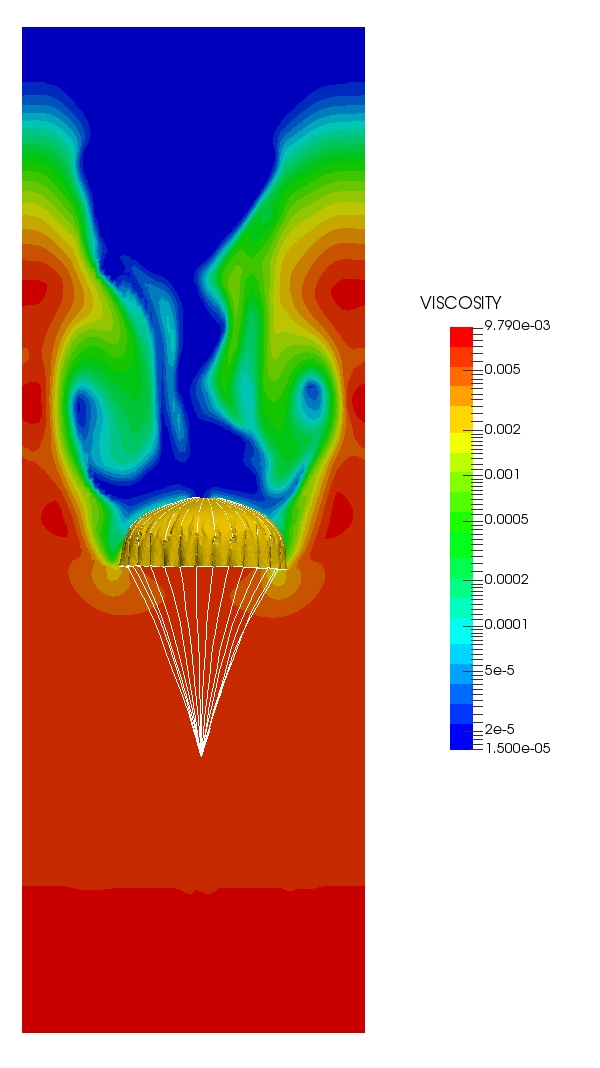
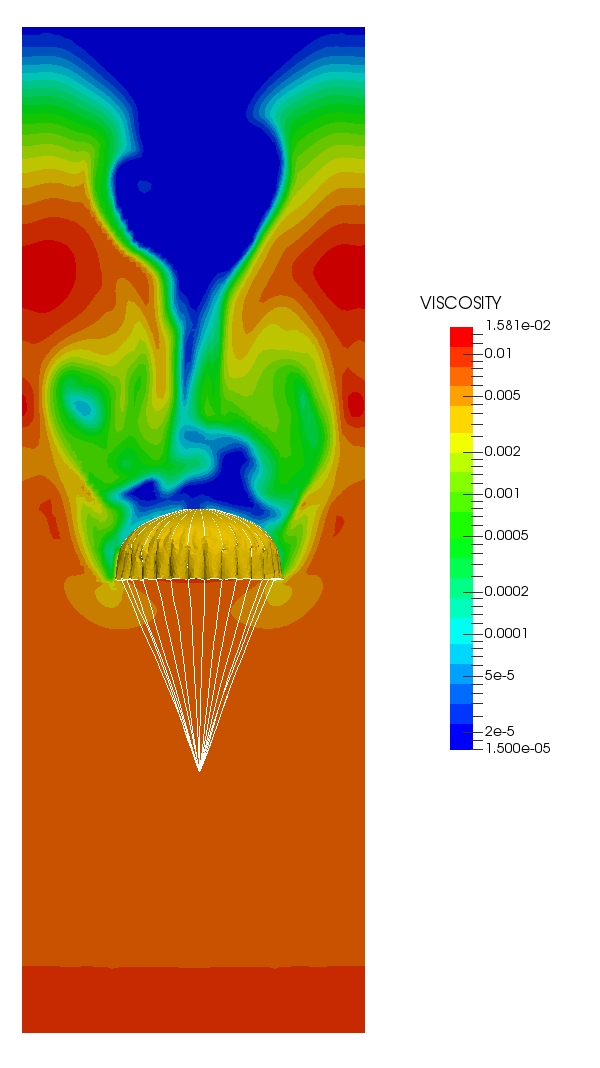
Added numerical results

diff --git a/Results.tex b/Results.tex
@@ -52,9 +52,11 @@ The Reynolds number around a full-size parachute usually exceeds several million
 
 \Fig{turbulent_visc_vel_10ms} shows the same test, yet with inlet velocity $10m/s$. It is reasonable that the parachutes are subjected to stronger drag force than the case of $3m/s$, and hence falls much slower. The Realizable model still predicts the smallest value of the viscosity in the wake of the parachute. However, since the inflow velocity increases, the kinetic energy and dissipation rate produced at the inlet are able to propagate further and dominate the viscosity field. As the parachute falls and interacts with the inlet flow, it pushes the turbulent viscosity field away to each side and generates vortex-like pattern.
 
-The standard $k-\varepsilon$ model assumed that the flow is fully turbulent, and the effects of molecular viscosity are negligible. This model works fairly well for a wide range of wall-bounded and free shear flows. However, since the parachute canopy prevents the flow from passing through and the flow behind the parachute is less-turbulent, the standard model tends to overestimate the turbulent viscosity in the parachute wake. The RNG model is integrated to obtain an accurate description of how the effective turbulent transport varies with the effective Reynolds number, allowing the model to better handle low-Reynolds-number and near-wall flows. The RNG model is more responsive to the effects of rapid strain and streamline curvature than the standard model, and hence in the rapidly strained flows, it yields a lower turbulent viscosity than the standard model. The Realizable model is proposed by satisfying certain mathematical constrains on the normal stresses, consistent with the physics of turbulent flows. It is believed that the modified form of the equation for $\varepsilon$ better represents the spectral energy transfer. The performance of the model has been found to be substantially better than that of the standard model.
+\Fig{turbulent_visc_vel_15ms} displays the velocity and viscosity field with inlet velocity $15m/s$. This test gives a real turbulence field, and therefore the predictions of the three models are expected to be reasonable. The viscosity field predicted by the RNG model resembles the standard one but with more details in the wake, while the realizable model produces a completely different viscosity field. This field results in a more chaotic velocity field than the other two cases. We also notice that using turbulence model makes the parachute drop significantly faster than the case without turbulence model. This can be explained by the fact that the turbulence viscosity plays as a friction between fluid elements, and hence reduce the velocity magnitude and the drag force.
 
-\begin{figure}
+In summary, the standard $k-\varepsilon$ model assumed that the flow is fully turbulent, and the effects of molecular viscosity are negligible. This model was demonstrated to work fairly well for a wide range of wall-bounded and free shear flows. However, since the parachute canopy prevents the flow from passing through and the flow behind the parachute is less-turbulent when the inlet velocity is small, the standard model tends to overestimate the turbulent viscosity in the parachute wake. The RNG model is integrated to obtain an accurate description of how the effective turbulent transport varies with the effective Reynolds number, allowing the model to better handle low-Reynolds-number and near-wall flows. The RNG model is expected to be more responsive to the effects of rapid strain and streamline curvature than the standard model. Hence in the rapidly strained flows, it yields a lower turbulent viscosity than the standard model. The Realizable model is proposed by satisfying certain mathematical constrains on the normal stresses, consistent with the physics of turbulent flows. It is believed that the modified form of the equation for $\varepsilon$ better represents the spectral energy transfer. The performance of the model has been found to be substantially better than that of the standard model.
+
+\begin{figure}[h!]
 \centering
 \includegraphics[width=0.24\textwidth]{Figures/c9-vel-std-3ms.jpg}
 \includegraphics[width=0.24\textwidth]{Figures/c9-vel-rng-3ms.jpg}
@@ -68,7 +70,7 @@ The standard $k-\varepsilon$ model assumed that the flow is fully turbulent, and
 \label{turbulent_visc_vel_3ms}
 \end{figure}
 
-\begin{figure}
+\begin{figure}[h!]
 \centering
 \includegraphics[width=0.24\textwidth]{Figures/c9-vel-std-10ms.jpg}
 \includegraphics[width=0.24\textwidth]{Figures/c9-vel-rng-10ms.jpg}
@@ -80,6 +82,20 @@ The standard $k-\varepsilon$ model assumed that the flow is fully turbulent, and
 \includegraphics[width=0.24\textwidth]{Figures/c9-vis-lam-10ms.jpg}
 \caption{Velocity magnitude and turbulent viscosity for C-$9$ parachute using different turbulent models at the same time frame. The inlet velocity is $10m/s$. The figures in the upper row displays the velocity magnitude and the figures in the lower row shows the turbulent viscosity.}
 \label{turbulent_visc_vel_10ms}
+\end{figure}
+
+\begin{figure}[h!]
+\centering
+\includegraphics[width=0.24\textwidth]{Figures/c9-vel-std-15ms.jpg}
+\includegraphics[width=0.24\textwidth]{Figures/c9-vel-rng-15ms.jpg}
+\includegraphics[width=0.24\textwidth]{Figures/c9-vel-real-15ms.jpg}
+\includegraphics[width=0.24\textwidth]{Figures/c9-vel-lam-15ms.jpg}\\
+\includegraphics[width=0.24\textwidth]{Figures/c9-vis-std-15ms.jpg}
+\includegraphics[width=0.24\textwidth]{Figures/c9-vis-rng-15ms.jpg}
+\includegraphics[width=0.24\textwidth]{Figures/c9-vis-real-15ms.jpg}
+\includegraphics[width=0.24\textwidth]{Figures/c9-vis-lam-15ms.jpg}
+\caption{Velocity magnitude and turbulent viscosity for C-$9$ parachute using different turbulent models at the same time frame. The inlet velocity is $15m/s$. The figures in the upper row displays the velocity magnitude and the figures in the lower row shows the turbulent viscosity.}
+\label{turbulent_visc_vel_15ms}
 \end{figure}
 \subsection{Porosity model}
 Two sets of numerical tests are carried out to validate the porosity model 
@@ -263,12 +279,12 @@ In order to generate a folded shape of the parachute canopy before the simulatio
 \end{figure}
 
 There exist many ways to fold a parachute. The standard folding procedure includes three steps: flat fold, long fold, and stow into a package. These steps should be carried out one by one without interfering each other.
-\section{Cloud microphysics}
+\section{Results for turbulent entrainment and mixing}
 \subsection{Experimental setup}
-Three different initial configurations of cloudy area are used to investigate
-the configuration impact. First, as in \cite{And04}, the function is defined
-according to the sign of the velocity function in physics space. This
-configuration is referred to as case 1 and the water vapor mixing ratio is
+Three different initial configurations are used to investigate
+the configuration impact. First, as in \cite{And04}, the function of the water vapor mixing 
+ratio $q_v(\vect{x}, t = 0)$ is defined according to the sign of the first component of the velocity 
+field. This configuration is referred to as C ase 1 and the water vapor mixing ratio is
 given by
 
 \begin{equation}
@@ -279,7 +295,9 @@ q_{v,e}, & u(\mathbf{x}) \le 0
 \end{array}\right.\label{case1}
 \end{equation}
 
-In \cite{Kumar11}, the author used a slab-like cloud configuration approximated with a simple discontinuous function, and is referred to as Case 2:
+In \cite{Kumar11}, the author used a slab-like cloud configuration approximated by a continuous 
+function with a rapid change at the cloud-clear air interface. We notice that this artificial function is 
+used due to the shortcoming of the spectral method, which has the difficulty to handle the profile with discontinuities. Since a finite difference method is used here, we can simply replace this function with a discontinuous formula and refer it as Case 2:
 
 \begin{equation}
 \mbox{case 2: } q_v(x,t=0) = 
@@ -309,36 +327,37 @@ q_{v,e}, & \mbox{elsewhere}
 
 The temperature field is initialized by imposing the neutral buoyancy condition \cite{Kumar14}:
 \begin{equation}
-T(x,t = 0) = T_0 - 0.608T_0[q_v(x,t = 0) - q_{v0}]
+T(\vect{x},t = 0) = T_0 - 0.608T_0[q_v(\vect{x},t = 0) - q_{v,0}]
 \end{equation}
 where the reference values are defined by volume averages $T_0 = \langle
-T(t=0)\rangle_V$ and $q_{v0} = \langle q_v(t=0)\rangle_V$. This condition
+T(t=0)\rangle_V$ and $q_{v,0} = \langle q_v(t=0)\rangle_V$. This condition
 implies that neither the vapor mixing ratio nor temperature would contribute to
 the initial buoyancy. This procedure is only performed for the initial
 temperature field and will completely follow \Eq{eq:Temp} afterwards.
 \Fig{fig:slice_case123} illustrates the initial fields of water vapor mixing
 ratio and temperature for the three cases.
 
-\begin{figure}\centering
+\begin{figure}[H]\centering
 \includegraphics[width=0.8\textwidth]{Figures/supersat_case123}\\
 \includegraphics[width=0.8\textwidth]{Figures/temp_case123}
 \caption{Cross sectional view of the initial supersaturation and temperature (K) field for different cases: case 1, 2, 3 from left to right. The cloudy part occupies about half of the computational domain.\label{fig:slice_case123}}
 \end{figure}
 
-\subsection{Initial droplets}
 At beginning, a total of $10^{7}$ droplets with the same radius of $15\mu m$
-are uniformly placed in the cloudy area, so as to make the droplet number
-concentration about $153{cm}^{-3}$. Note that for the forced turbulence
+are uniformly placed in the cloudy area, so that the droplet number
+concentration is about $153{cm}^{-3}$. Note that for the forced turbulence
 scenario, the velocity field needs a few steps ($5$ seconds here) to relax to a
 steady state. Therefore, the droplets are released to move and change their
-sizes according to the physics law after this spin-up period. For the decaying
+sizes after this spin-up period. For the decaying
 turbulence, the droplets are released at time $t = 0s$ since there is no needs
 to seek for a steady state. A droplet with radius smaller than $1\mu m$ will be
 immediately removed from the computational domain and will not contribute to
 any statistical results.
 
 For convenience, \Table{tb:parameters} summarizes the key quantities and initial conditions.
-\begin{table}[h]
+\begin{table}[H]
+\centering
+\begin{adjustbox}{max width = \textwidth}
 \begin{tabular}{l c c c c c}
 \hline\hline
 Quantity & Symbol & Value & Quantity & Symbol & Value\\
@@ -352,11 +371,12 @@ Dissip length& $\eta$ & $10^{-3}m$ & Evaporation time & $\tau_{evap}$ & $2.09s$\
 Dissip time& $\tau_{\eta}$ & $0.087s$ & Reaction time & $\tau_{react}$ & $4.52s$\\
 \hline
 \end{tabular}
+\end{adjustbox}
 \caption{Initial conditions}
 \label{tb:parameters}
 \end{table}
 
-\subsection{Results and analysis}
+\subsection{Thermodynamics}
 \Fig{fig:therm_dynam} compares the temporal evolution of the turbulent kinetic
 energy (a), droplets number concentration (b), standard deviation and relative
 dispersion of temperature (c,d) and the same for water vapor mixing ratio
@@ -404,16 +424,24 @@ continue to condensate. This phase transition process reduce the difference of
 vapor mixing ratio between clear air and cloudy air, thus the transient growth
 of the deviation can hardly be observed.
 
-\begin{figure}\centering \includegraphics[width=0.48\textwidth]{Figures/tke}
-\includegraphics[width=0.48\textwidth]{Figures/num_con}\\
-\includegraphics[width=0.48\textwidth]{Figures/temp_std}
-\includegraphics[width=0.48\textwidth]{Figures/temp_dsp}\\
-\includegraphics[width=0.48\textwidth]{Figures/vapor_std}
-\includegraphics[width=0.48\textwidth]{Figures/vapor_dsp}
+\begin{figure}[H]\centering 
+\subcaptionbox{}{\includegraphics[width=0.48\textwidth]{Figures/tke}}
+\subcaptionbox{}{\includegraphics[width=0.48\textwidth]{Figures/num_con}}
+\end{figure}
+
+\begin{figure}[H]\ContinuedFloat
+\subcaptionbox{}{\includegraphics[width=0.48\textwidth]{Figures/temp_std}}
+\subcaptionbox{}{\includegraphics[width=0.48\textwidth]{Figures/temp_dsp}}
+\end{figure}
+
+\begin{figure}[H]\ContinuedFloat
+\subcaptionbox{}{\includegraphics[width=0.48\textwidth]{Figures/vapor_std}}
+\subcaptionbox{}{\includegraphics[width=0.48\textwidth]{Figures/vapor_dsp}}
 \caption{Thermodynamics of three cases, from left to right, up to bottom, are
 turbulence kinetic energy (a), droplets number concentration (b), standard
 deviation (c), relative dispersion (d) of temperature field and the same for
-the vapor mixing ratio (e,f).\label{fig:therm_dynam}} \end{figure}
+the vapor mixing ratio (e,f).}\label{fig:therm_dynam} 
+\end{figure}
 
 \subsection{Microphysics}
 The droplet size distributions for case 1, 2 ,3 in both decaying and forced
@@ -430,13 +458,19 @@ cases are caused by the buoyancy term in \Eq{eq:source_term}. In specific, the
 buoyancy plays as a source of kinetic energy, so as to influence the motion of
 the fluid field.  
 
-\begin{figure}[h]\centering
-\includegraphics[width=0.48\textwidth]{Figures/pdf_radius_d1}
-\includegraphics[width=0.48\textwidth]{Figures/pdf_radius_f1}\\
-\includegraphics[width=0.48\textwidth]{Figures/pdf_radius_d2}
-\includegraphics[width=0.48\textwidth]{Figures/pdf_radius_f2}\\
-\includegraphics[width=0.48\textwidth]{Figures/pdf_radius_d3}
-\includegraphics[width=0.48\textwidth]{Figures/pdf_radius_f3}
+\begin{figure}[H]\centering
+\subcaptionbox{}{\includegraphics[width=0.48\textwidth]{Figures/pdf_radius_d1}}
+\subcaptionbox{}{\includegraphics[width=0.48\textwidth]{Figures/pdf_radius_f1}}
+\end{figure}
+
+\begin{figure}[H]\ContinuedFloat
+\subcaptionbox{}{\includegraphics[width=0.48\textwidth]{Figures/pdf_radius_d2}}
+\subcaptionbox{}{\includegraphics[width=0.48\textwidth]{Figures/pdf_radius_f2}}
+\end{figure}
+
+\begin{figure}[H]\ContinuedFloat
+\subcaptionbox{}{\includegraphics[width=0.48\textwidth]{Figures/pdf_radius_d3}}
+\subcaptionbox{}{\includegraphics[width=0.48\textwidth]{Figures/pdf_radius_f3}}
 \caption{Evolution of radius distribution for decaying turbulence (left column)
 and forced turbulence (right column). From up to bottom are case 1, case 2 and
 case 3 respectively.}\label{fig:rad_distri} \end{figure}
@@ -451,13 +485,19 @@ environment becomes much more homogeneous, that is most droplets stay in a
 similar environment. Finally, the environment becomes well-mixed, droplets
 completely evaporate and all the cases reach the same state.
 
-\begin{figure}[h]\centering
-\includegraphics[width=0.48\textwidth]{Figures/pdf_supersat_d1}
-\includegraphics[width=0.48\textwidth]{Figures/pdf_supersat_f1}\\
-\includegraphics[width=0.48\textwidth]{Figures/pdf_supersat_d2}
-\includegraphics[width=0.48\textwidth]{Figures/pdf_supersat_f2}\\
-\includegraphics[width=0.48\textwidth]{Figures/pdf_supersat_d3}
-\includegraphics[width=0.48\textwidth]{Figures/pdf_supersat_f3}
+\begin{figure}[H]\centering
+\subcaptionbox{}{\includegraphics[width=0.48\textwidth]{Figures/pdf_supersat_d1}}
+\subcaptionbox{}{\includegraphics[width=0.48\textwidth]{Figures/pdf_supersat_f1}}
+\end{figure}
+
+\begin{figure}[H]\ContinuedFloat
+\subcaptionbox{}{\includegraphics[width=0.48\textwidth]{Figures/pdf_supersat_d2}}
+\subcaptionbox{}{\includegraphics[width=0.48\textwidth]{Figures/pdf_supersat_f2}}
+\end{figure}
+
+\begin{figure}[H]\ContinuedFloat
+\subcaptionbox{}{\includegraphics[width=0.48\textwidth]{Figures/pdf_supersat_d3}}
+\subcaptionbox{}{\includegraphics[width=0.48\textwidth]{Figures/pdf_supersat_f3}}
 \caption{Evolution of supersaturation distribution for decaying turbulence
 (left column) and forced turbulence (right column). From up to bottom are case
 1, case 2 and case 3 respectively. In conclusion, the shape of the cloud
@@ -468,11 +508,10 @@ decaying cases. The results suggest that the initial shape of cloud filaments
 should be considered as an important factor when studying mixing scenario
 without external forcing.}\label{fig:supersat_distri} \end{figure}
 
-\subsection{Mixing scenario}\label{mixing_processes} Depending on the mixing
-scenario (the homogeneity of mixing), the droplets evolve in quite different
-ways. In the extremely homogeneous mixing scenario, droplet concentration does
-not change while liquid water mixing ratio and thus the mean radius decreases.
-In the extremely inhomogeneous mixing scenario, some droplets in the cloud
+\subsection{Entrainment and mixing processes}
+The cloud droplets evolve in different ways depending on the mixing scenario. In the 
+extremely homogeneous mixing, all the droplets stay in the same environment.
+In the extremely inhomogeneous mixing, some droplets in the cloud
 completely evaporate, reducing droplet number concentration and liquid water
 mixing ratio while keeping mean radius roughly unchanged. The mixing of clear
 and cloudy air is often quantified by the Damkohler number:
@@ -629,7 +668,7 @@ settings. In conclusion, the behaviors of the mixing trajectories are not only
 determined by the relative time scale or Damkohler number but also by the
 distribution of the cloud water content.
 
-\begin{figure}\centering
+\begin{figure}[H]\centering
 \includegraphics[width=0.48\textwidth]{Figures/mixing_cased1}
 \includegraphics[width=0.48\textwidth]{Figures/mixing_casef1}\\
 \includegraphics[width=0.48\textwidth]{Figures/mixing_cased2}
@@ -644,7 +683,7 @@ domain. Color indicates the time for each record. Only the boxes with non-zero
 particles at the initial time are considered. \label{fig:mixing_diagram}}
 \end{figure}
 
-\subsection{Effects of sedimentation on preferential concentration}
+\subsection{Preferential concentration}
 Clustering of inertial particles has been extensively studied via both
 experiments and numerical simulations \cite{Sundaram97, Reade2000}, but the
 sedimentation effects on the clustering are poorly understood. In this section,

diff --git a/Numerical.tex b/Numerical.tex
@@ -1,5 +1,5 @@
 \chapter{Numerical Method}
-The success of the computational fluid dynamics highly depends on the underlying numerical method. Until now, various numerical method has been proposed to solve the partial differential equation and ordinary differential equation. However, instead of applying a general approach, some special techniques are usually required in a specific problem. In this chapter, the numerical method for Navier-Stokes equation, advection-diffusion-reaction equation and ordinary differential equation are introduced. In the meanwhile, the criteria of their convergence and stability are also discussed.
+The success of the computational fluid dynamics highly depends on the underlying numerical method. Until now, various numerical method has been proposed to solve the partial differential equation and ordinary differential equation. However, instead of applying a general approach, some special techniques are usually required for a specific problem. In this chapter, the numerical method for Navier-Stokes equation, advection-diffusion-reaction equation and ordinary differential equation are introduced. In the meanwhile, the criteria of their convergence and stability are also discussed.
 
 \section{Projection method for incompressible Navier-Stokes equation}
 A major difficulty for the numerical simulation of incompressible flows is that the velocity and the pressure are coupled by the incompressibility constraint \cite{Guermond2005Overview}. In 1960s, Chorin and Temam proposed the fraction-step method in their ground breaking work \cite{} to overcome the difficulty in time-dependent viscous incompressible flow. In their method, the velocity and pressure are decoupled at each time step, and consequently only a sequence of decoupled elliptic equation are needed to solve. This makes the projection method very efficient for large scale numerical simulation.
@@ -120,7 +120,7 @@ B(\Phi^{n+1}) = 0
 \end{equation}
 As stated before, the advection term $[(\vect{U}\cdot\nabla)\Phi]^{n+1/2}$ can be approximated by $\{[(\vect{U}\cdot \nabla)\Phi]^n + [(\vect{U}\cdot \nabla)\Phi]^{n+1}\}/2$ and then discretized using central difference scheme. It can also be computed explicitly using upwind or WENO scheme introduced in the previous section. The Crank Nicolson scheme is second order accurate in time and space, and it is also unconditionally stable. Due to these features, Crank Nicolson scheme is the preferable method for solving the scalar field.
 
-Different from the pure advection-diffusion equation, the reaction term adds more challenges. In many cases, the physics problem requires the underlying scalar field to be positive. For example, the concentration of a chemical species cannot be negative; the turbulence kinetic energy and dissipation rate should always be larger or equal to zero. However, the existence of sink term in \Eq{scal_eqn} can easily push the solution below zero in one time step. To avoid the loss of positivity of these variables is not an easy task. Simply set a lower bound to these variable does not always work, since this strongly depends on the limitation strategy. Another alternative is to solve for the logarithms of the original variable, but one then deals with modified set of equations involving exponentials of the unknowns. A simple numerical trick is to look at the linearized equation, and then set a lower limitation for the coefficients. The principle of this approach is that one never touches the solution, just the coefficients of the linearized equations. Take \Eq{k_eqn} for turbulence kinetic energy as an example. The existence of $-\varepsilon$ on the right hand side of the equation may result in loss of positivity. Therefore, a possible modification for this equation is:
+Different from the pure advection-diffusion equation, the reaction term adds more challenges. In many cases, the physics problem requires the underlying scalar field to be positive. For example, the concentration of a chemical species cannot be negative; the turbulence kinetic energy and dissipation rate should always be larger or equal to zero. However, due to numerical error, the existence of sink term in \Eq{scal_eqn} can easily push the solution below zero in one time step. To avoid the loss of positivity of these variables is not an easy task. Simply set a lower bound to these variable does not always work, since this strongly depends on the limitation strategy. Another alternative is to solve for the logarithms of the original variable, but one then deals with modified set of equations involving exponentials of the unknowns. A simple numerical trick is to look at the linearized equation, and then set a lower limitation for the coefficients. The principle of this approach is that one never touches the solution, just the coefficients of the linearized equations. Take \Eq{k_eqn} for turbulence kinetic energy as an example. The existence of $-\varepsilon$ on the right hand side of the equation may result in loss of positivity. Therefore, a possible modification for this equation is:
 \begin{equation}
 \frac{\partial k}{\partial t}
 +\nabla\cdot(k\mathbf{U}
@@ -128,15 +128,15 @@ Different from the pure advection-diffusion equation, the reaction term adds mor
 = P_k - \gamma_k k
 \label{mdf_k_eqn}
 \end{equation}
-where $\gamma_k = \max(0, \varepsilon/k)$. Now if \Eq{mdf_k_eqn} is solved with implicit method, the solution must keeps its positivity. Similar technique can be easily generalized to other reaction equations.
+where $\gamma_k = \max(0, \varepsilon/k)$. If \Eq{mdf_k_eqn} is solved with implicit method, the solution must keeps its positivity. Similar technique can be easily generalized to other reaction equations.
 
-\section{Numerical Method for Particle System}
-The equations for the particle system are essentially ordinary differential equations (ODEs), and hence most numerical scheme for ODEs can be applied, such as linear multistep methods \cite{}, Runge-Kutta methods \cite{} and boundary value methods \cite{}. However, the difficulties of solving an ODE lies on its stiffness, that is including some terms that can lead to rapid variation in the solution, and these terms may cause numerical unstable for some methods. The behavior of numerical methods on stiff problem can be analyzed by applying these methods to the test equation
+\section{Numerical method for ordinary differential system}
+The equations for the particle system are essentially ordinary differential equations (ODEs), and hence most numerical scheme for ODEs can be applied, such as linear multistep methods \cite{}, Runge-Kutta methods \cite{} and boundary value methods \cite{}. However, the difficulties of solving an ODE lies on its stiffness, that is including some terms that can lead to rapid variation in the solution, and these terms may cause numerical unstable in some situations. The behavior of numerical methods on stiff problem can be analyzed by applying these methods to the test equation
 \begin{equation}
 y' = k y
 \label{test_eqn}
 \end{equation}   
-where $y(0) = 1$ and $k \in \mathcal{C}$. Let $h$ denotes the time step and $z = hk$, by induction we have $y_n = (\Phi(z))^ny_0$. The function $\Phi$ is called the stability function and the region of $\{z\in \mathcal{C}| |\Phi(z)| < 1\}$ is called the absolute stability region. The numerical method is A-stable if the region of absolute stability contains the set $\{ z \in \mathcal{C}| \Re(z) < 0\}$. The typical methods for solving ODE: $y' = f(t,y)$ are:
+where $y(0) = 1$ and $k \in \mathcal{C}$. Let $h$ denotes the time step and $z = hk$, by induction we have $y_n = (\Phi(z))^ny_0$. The function $\Phi$ is called the stability function and the region of $\{z\in \mathcal{C}| |\Phi(z)| < 1\}$ is called the absolute stability region. The numerical method is A-stable if the region of absolute stability contains the set $\{ z \in \mathcal{C}| \Re(z) < 0\}$. The typical methods for solving ODE: $y' = f(t,y)$ are listed below.
 
 \begin{enumerate}
 \item Runge-Kutta methods are a family of numerical methods used in temporal discretization for the approximation solutions of ODEs. They use intermediate steps to enhance the accuracy and can be either implicit and explicit. The general Runge-Kutta methods take the form 
@@ -197,7 +197,7 @@ Note that this method does not have a step control parameters. It is also not su
 The advantage of implicit Runge-Kutta methods is their greater stability. It has been proved that Gauss-Legendre method with $s$ stage has order $2s$ and is A-stable.
 \end{enumerate}
 
-\item Multistep methods attempt to achieve efficiency be using the information from previous steps. A general linear multistep method takes the following form
+\item Multistep methods attempt to achieve efficiency by using the information from previous steps. A general linear multistep method takes the following form
 \begin{equation}
 y_{k+1}=\sum_{i=1}^{m}\alpha_{i}y_{k+1-i}+h\sum_{i=0}^{m}\beta_{i}f\left(t_{k+1-i},y_{k+1-i}\right)
 \end{equation}
@@ -220,7 +220,7 @@ y_{n+1} - \frac{4}{3}y_{n} + \frac{1}{3}y_{n-1} = \frac{2}{3}hf(t_{n+1},y_{n+1})
 \end{enumerate}
 It has been proved that explicit methods can never be A-stable. An implicit multistep method can only be A-stable if their order is at most $2$, while an A-stable Runge-Kutta method can have arbitrarily high order \cite{Hairer1993}. The difficulty of exceeding second order of an A-stable multistep methods is called Dahlquist barrier \cite{Dahlquist1963, Dahlquist1956}.
 
-\item Boundary value methods are the third way between linear multistep and Runge-Kutta methods proposed in a few years ago \cite{Brugnano1998}. These class of methods transform the original initial value problem into an equivalent boundary value problem using linear multistep formula (LMF), and is able to overcome the major drawback of the linear multistep methods: Dahlquist barriers. It is know that even the original LMF is unstable, the corresponding boundary value method can be $0$-stable and A-stable, provided appropriate boundary conditions are given.
+\item Boundary value methods are the third way between linear multistep and Runge-Kutta methods proposed in a few years ago \cite{Brugnano1998}. These class of methods transform the original initial value problem into an equivalent boundary value problem using linear multistep formula (LMF), and is able to overcome the major drawback of the linear multistep methods: Dahlquist barriers. It is known that even the original LMF is unstable, the corresponding boundary value method can be $0$-stable and A-stable, provided appropriate boundary conditions are given.
 \end{enumerate}
 
 

diff --git a/Application.tex b/Application.tex
@@ -351,15 +351,18 @@ $\bar{\mathbf{v}}^{n+1/2} = (\bar{\mathbf{x}}^{n+1}-\mathbf{x}^n)/\Delta t$
 $\mathbf{x}^{n+1} = \mathbf{x}^n+\mathbf{v}^{n+1/2}\Delta t$
 \item Advance the mid-step velocity $\mathbf{v}^{n+1/2}$ to $\mathbf{v}^{n+1}$ \end{itemize}
 
-We will focus on the step of collision resolution since other steps are trivial. As in \cite{Bridson02}, the collision detection and response consist of a few subroutines: proximity detection, collision detection and fail-safe method. For efficient proximity detection, an axis aligned bounding boxes hierarchy (AABB tree) is built bottom-up at the beginning of the simulation and will be recalculated for each iteration of the collision algorithm. The bounding boxes are created by taking a box around each geometric element enlarged by the thickness of the cloth. In the parachute simulation, two types of elements need to be considered: triangle for parachute canopy and bond for suspension lines. After creating the AABB tree, we can efficiently traverse the potential collision by only considering the geometric elements with intersected bounding boxes. It is obvious that the potential collisions drop into three categories: triangle to triangle, triangle to bond , and bond to bond. These cases can be further simplified into the cases of "edge to edge" and "point to triangle". Note that we don't check a point against a triangle that contains it or two edges shares an endpoint. If the distance between a point and a triangle or two edges is smaller than the fabric thickness, a repulsion force is applied to the two elements to stop the proximity and a non-stiff penalty force is also used to prevent the collisions in the future. The second subroutine, collision detection, is similar to the proximity detection, except that the bounding boxes are enlarged to contain both the old state and the current state. This helps to detect the intersection between the moving trajectories of two elements. When a real collision occurs, the corresponding two elements are rewound back to the exact moment of collision and applied with the repulsion forces. Finally, the fail-safe method, impact zone method, is necessary since the collision handling procedure follows the iteration methodology and it is not guaranteed to terminate in finite number of steps. This is mainly because resolving old collision may bring new collision to the surface. As stated in \cite{}, the principle of the impact zone method is to combine all the points in collision to form a large rigid surface. The points in the rigid surface have no relative motion, and hence all collisions can be quickly eliminated. However, this impact zone method has a tendency to freeze the cloth into nonphysical clumps. Therefore, we only switch to the impact zone method after a few iterations to quickly eliminate all collisions.
+We will focus on the step of collision resolution since other steps are trivial. As in \cite{Bridson02}, the collision detection and response consist of a few subroutines: proximity detection, collision detection and fail-safe method. For efficient proximity detection, an axis aligned bounding boxes hierarchy (AABB tree) is built bottom-up at the beginning of the simulation and will be recalculated for each iteration of the collision algorithm. The bounding boxes are created by taking a box around each geometric element enlarged by the thickness of the cloth. In the parachute simulation, two types of elements need to be considered: triangle for parachute canopy and bond for suspension lines. After creating the AABB tree, we can efficiently traverse the potential collision by only considering the geometric elements with intersected bounding boxes. It is obvious that the potential collisions drop into three categories: triangle to triangle, triangle to bond , and bond to bond. These cases can be further simplified into the cases of "edge to edge" and "point to triangle". Note that we don't check a point against a triangle that contains it or two edges shares an endpoint. If the distance between a point and a triangle or two edges is smaller than the fabric thickness, a repulsion force is applied to the two elements to stop the proximity and a non-stiff penalty force is also used to prevent the collisions in the future. 
 
-It is known that the parachute inflations process includes the interactions of rigid bodies (cargo, parachutist), elastic surfaces (parachute canopy) and elastic curves (suspension line). The combination gives six unique situations and make the algorithm not easy to implement. In the programming design of point view, our solution to this problem is to use an abstract C++ class to represent the collision elements: both the "bond" and "triangle". This abstract class provides interface to give their minimum and maximum coordinates in each direction, as well as iterators for all the points in the element. By doing this, the collision algorithm works without knowing the element is a triangle or a line segment. As for the rigid body, we merge all the rigid points to form a large impact zone before the collision detection and handling. Since the impact zone method essentially duplicates the motion of a rigid body, the remaining collision procedure does not need to be changed at all. 
+The second subroutine, collision detection, is similar to the proximity detection, except that the bounding boxes are enlarged to contain both the old state and the current state. This helps to detect the intersection between the moving trajectories of two elements. When a real collision occurs, the corresponding two elements are rewound back to the exact moment of collision and applied with the repulsion forces. 
+
+Finally, the fail-safe method, impact zone method, is necessary since the collision handling procedure follows the iteration methodology and it is not guaranteed to terminate in finite number of steps. This is mainly because resolving old collision may bring new collision to the surface. As stated in \cite{}, the principle of the impact zone method is to combine all the points in collision to form a large rigid surface. The points in the rigid surface have no relative motion, and hence all collisions can be quickly eliminated. However, this impact zone method has a tendency to freeze the cloth into nonphysical clumps. Therefore, we only switch to the impact zone method after a few iterations to quickly eliminate all collisions.
+
+It is known that the parachute inflations process includes the interactions of rigid bodies (cargo, parachutist), elastic surfaces (parachute canopy) and elastic curves (suspension line). The combination gives six unique situations and make the algorithm not easy to implement. In the programming design point of view, our solution to this problem is to use an abstract C++ class to represent the collision elements: both the "bond" and "triangle". This abstract class provides interface to give their minimum and maximum coordinates in each direction, as well as iterators for all the points in the element. By doing this, the collision algorithm works without knowing the element is a triangle or a line segment. As for the rigid body, we merge all the rigid points to form a large impact zone before the collision detection and handling. Since the impact zone method essentially duplicates the motion of a rigid body, the remaining collision procedure does not need to be changed at all. 
 
 There are many ways to construct the impact zone. Our implementation uses the famous "union and find" algorithm \cite{}. Before the collision algorithm starts, each point is in its own list. Then, when a point-triangle or edge-edge collision occurs, the lists containing the four points are merged together into one larger impact zone. The impact zones are grown until the cloth is collision free. The velocity of the points in the impact zone is derived from a rigid body motion that preserves linear and angular momentum.
 
 In summary, this method can guarantee no dynamic self-interference of cloth after a successful call of the function. We coupled our collision handling function with the {\it
-FronTier++} library, and utilized OpenMP to parallelize the traverse of the triangle
-list. Our algorithm can universally handle various collision situations between rigid bodies, fabrics and strings. \Fig{fig:collision} shows the numerical results of the six collision situations.
+FronTier++} library, and utilized OpenMP to parallelize the traverse of the collision elements. Our algorithm can universally handle various collision situations between rigid bodies, fabrics and strings. \Fig{fig:collision} shows the numerical results of the six collision situations.
 
 \subsection{Parallelism} 
 The \FronTierp library offers functions for parallelized

diff --git a/Background.tex b/Background.tex
@@ -1,5 +1,5 @@
 \chapter{Background}\label{background}
-Fluid-structure interaction (FSI) problems in general are often too complex to solve analytically and so they have to be analyzed by means of experiments or numerical simulation. Although the maturity of the computational fluid dynamics enable numerical simulation of fluid structure interaction, considering turbulence flow in these problems add more difficulties and challenges. The numerical models for solving FSI problems usually involve solving several equations describing the behaviors fluid and structures. Sometimes the equations of the scalar field, such as temperature or the concentration of chemical species, also need to be considered as a significant component of the system. In this chapter, three different categories of equations for fluid field, scalar field and particle dynamics are introduced in the mathematics point of view.
+Fluid-structure interaction (FSI) problems in general are often too complex to solve analytically and so they have to be analyzed by means of experiments or numerical simulation. Although the maturity of the computational fluid dynamics enables numerical simulation of fluid structure interaction, considering turbulence flow in these problems add more difficulties and challenges. The numerical models for solving FSI problems usually involve solving several equations describing the behaviors fluid and structures. Sometimes the equations of the scalar field, such as temperature or the concentration of chemical species, also need to be considered as a significant component of the system. In this chapter, three different categories of equations for fluid field, scalar field and particle dynamics are introduced in the mathematics point of view.
 
 \section{Navier-Stokes equation and turbulent flow}
 It is common to view turbulent flows in both our daily life, such as smoke from a chimney, water in a river, and engineering fields, such as flows around airplanes, or mixing of fuel and air in engines. In these observations, the flow is unsteady, irregular and chaotic. The motion of every eddy or droplet is unpredictable \cite{PopeTurbulent2000}. In another word, the velocity of turbulent flows varies irregularly in both position and time. The velocity field is denoted in mathematics by $\mathbf{U}(\mathbf{x},t)$, where $\mathbf{x}$ is the position and $t$ is time. Another important feature of turbulence is its ability to transport and mix fluid much more effectively than a comparable laminar flow. The intensity of turbulent flow is often characterized by a single non-dimensional parameter, Reynolds number\cite{Reynolds1894}: 
@@ -112,9 +112,9 @@ To compute the turbulent viscosity $\nu_T$, the most widely used complete turbul
 \varepsilon}{\partial t}+\nabla\cdot(\varepsilon \mathbf{U}
 -(\nu+\frac{\nu_T}{\delta_\varepsilon})\nabla \varepsilon)
 =\frac{\varepsilon}{k}(C_1P_k-C_2\varepsilon) \label{eq:eps_eqn} \end{equation}
-where $P_k = \frac{\nu_T}{2}|\nabla \mathbf{U} + \nabla \mathbf{U}^T|^2$ is the production of turbulent kinetic energy. In summary, the equations given above are all specific examples of convection-diffusion-reaction equations, and can be solved using similar numerical scheme in a unified PDE framework. Again, the detailed explanation and improvements to these equations will be found in the later chapters.
+where $P_k = \frac{\nu_T}{2}|\nabla \mathbf{U} + \nabla \mathbf{U}^T|^2$ is the production of turbulent kinetic energy. In summary, the equations given above are all specific examples of convection-diffusion-reaction equations, and can be solved using similar numerical scheme in a unified PDE framework. Again, the detailed explanation and improvements to these equations can be found in the later chapters.
 
-\section{Particle System dynamics}
+\section{Ordinary differential system for particle dynamics}
 Particles are objects that have mass, position, and velocity, and respond to forces, but that have no spatial extent. Due to its simple structure, particles are by far the easiest objects to simulate. In spite of simplicity, particles have a wide range of applications. For example, an elastic membrane can be built by connecting particles with simple damped springs; a group of cloud droplets in their early life can be simulated with millions of particles. The motion of a Newtonian particle is governed by the familiar first order ordinary differential equations (ODE) for position $\vect{x}$ and velocity $\vect{v}$:
 \begin{equation}
 \dot{\vect{v}} = \vect{f}/m

diff --git a/Dissertation.tex b/Dissertation.tex
@@ -4,11 +4,14 @@
 \usepackage{mathtools}
 \usepackage{amssymb}            % to see postscript files
 \usepackage{doublespace}
+\usepackage{adjustbox}
+\usepackage{float}
+\usepackage{subcaption}
 
 %\usepackage{epstopdf}
 \usepackage[dvips]{epsfig}
 \usepackage{multirow}
-\usepackage{subfigure}
+%\usepackage{subfigure}
 \usepackage{color}
 \usepackage{listings}
 \usepackage{verbatim}
